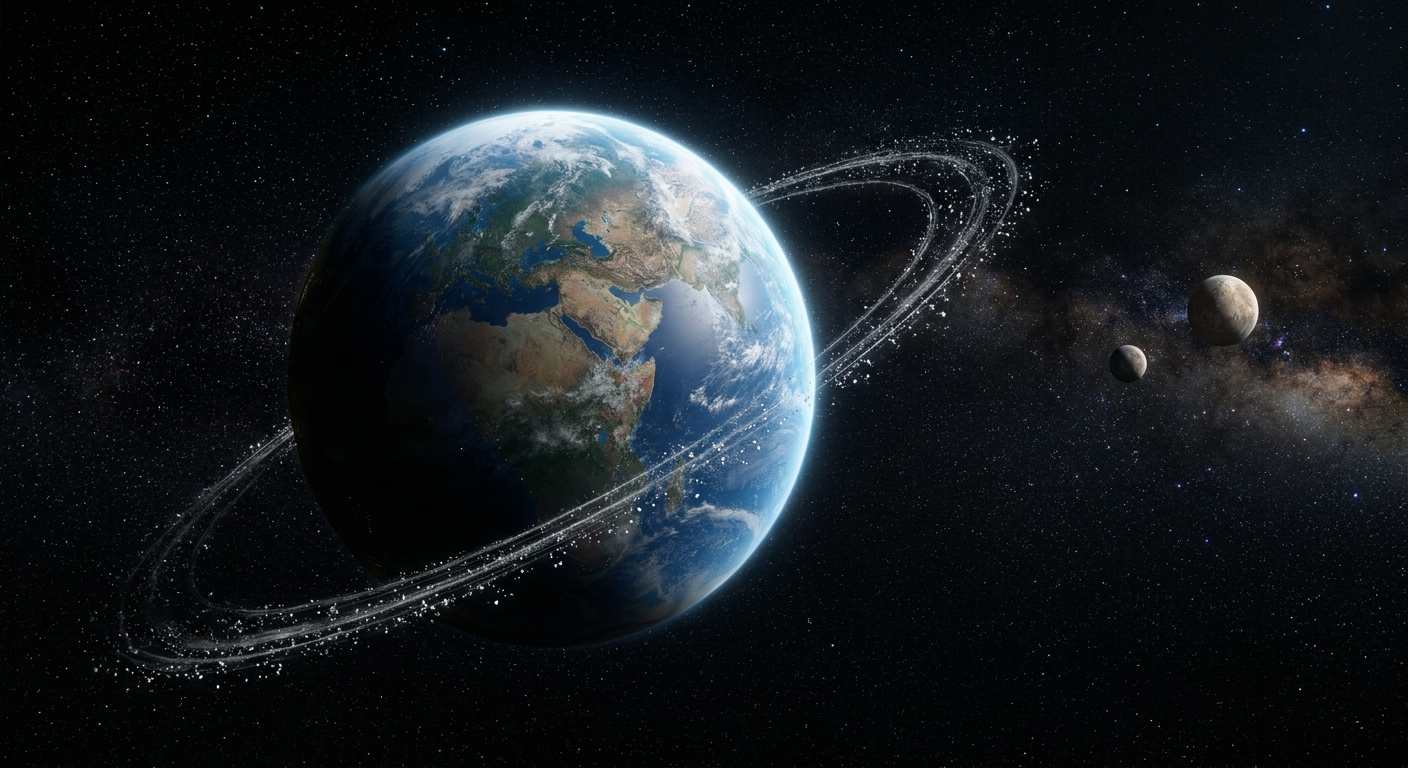
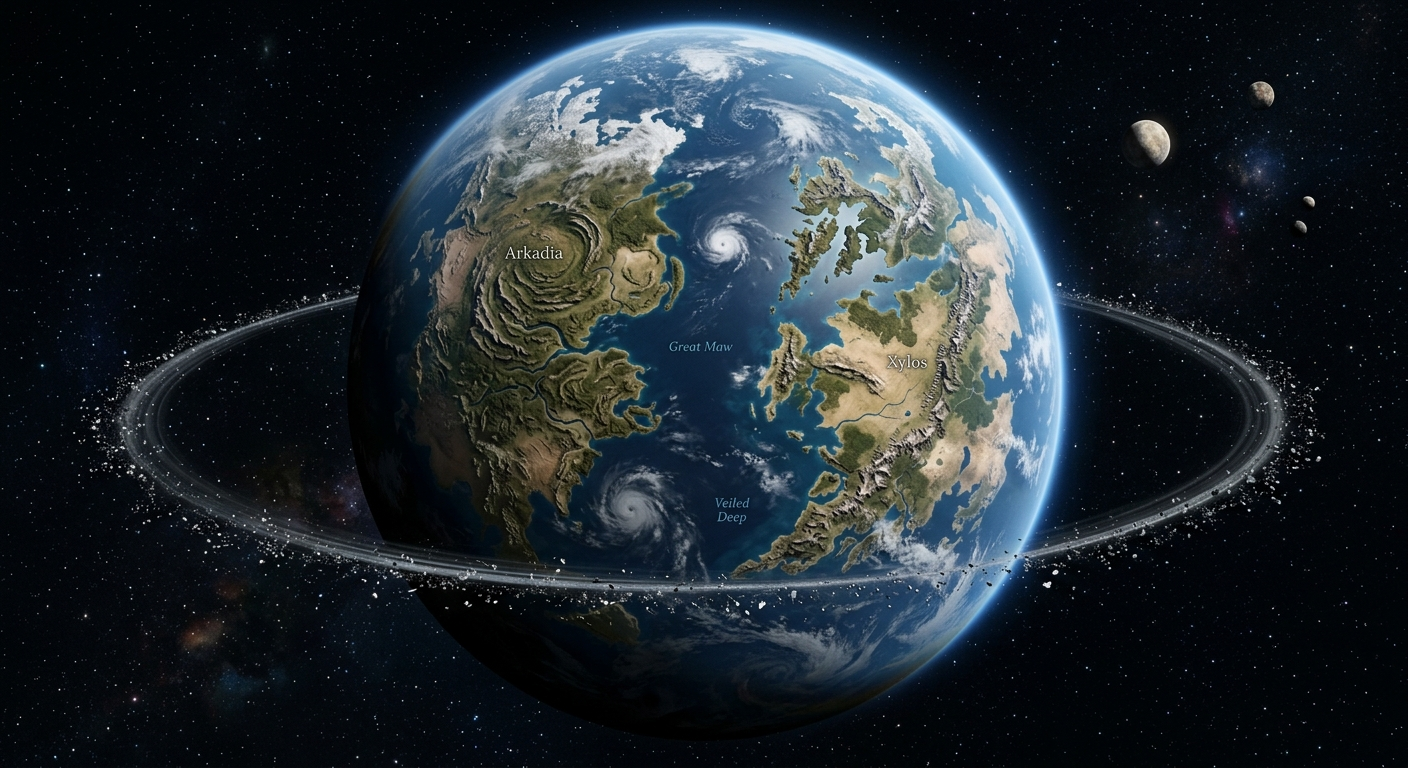
World of Ge'or — Ge'orian continents + email fix
- Planet: regenerate Geor_World_fixed.jpg with fictional continents (Arkadia, Xylos, Great Maw, Veiled Deep), no Earth, thin fragmented Silver Bride ring via nano-banana pro
- Hero: now uses Geor_World_fixed.jpg (random continents, not Earth)
- Atlas: orbital view label stays Silver Bride 597 AGD
- Email: Request Access (header, mobile, CTA) -> ichieisenheart@gmail.com with subject

diff --git a/index.html b/index.html
@@ -26,8 +26,8 @@
         <a href="#gallery" class="text-cream/70 hover:text-cream transition">GALLERY</a>
       </nav>
       <div class="hidden md:flex items-center gap-3">
-        <a href="mailto:hello@worldofgeor.com" class="text-xs tracking-widest border border-gold/30 text-gold px-4 py-2 rounded-full hover:bg-gold/10 transition">REQUEST ACCESS</a>
-        <a href="#world" class="text-xs tracking-widest bg-gradient-to-b from-gold to-amberdeep text-ink px-5 py-2.5 rounded-full font-semibold hover:brightness-110 transition">ENTER</a>
+        <a href="mailto:ichieisenheart@gmail.com?subject=Request%20access%20to%20World%20of%20Ge'or" class="text-xs tracking-widest border border-gold/30 text-gold px-4 py-2 rounded-full hover:bg-gold/10 transition">REQUEST ACCESS</a>
+        <a href="#atlas" class="text-xs tracking-widest bg-gradient-to-b from-gold to-amberdeep text-ink px-5 py-2.5 rounded-full font-semibold hover:brightness-110 transition">ENTER</a>
       </div>
       <button id="menuBtn" class="md:hidden p-2 text-cream/80">
         <svg width="22" height="22" viewBox="0 0 24 24" fill="none" stroke="currentColor" stroke-width="1.6"><path d="M4 7h16M4 12h16M4 17h16"/></svg>
@@ -38,14 +38,14 @@
       <a href="#atlas" class="block text-sm tracking-widest text-cream/80">ATLAS</a>
       <a href="#history" class="block text-sm tracking-widest text-cream/80">HISTORY</a>
       <a href="#gallery" class="block text-sm tracking-widest text-cream/80">GALLERY</a>
-      <a href="#" class="inline-block mt-2 text-xs tracking-widest bg-gold text-ink px-5 py-2.5 rounded-full font-semibold">REQUEST ACCESS</a>
+      <a href="mailto:ichieisenheart@gmail.com?subject=Request%20access%20to%20World%20of%20Ge'or" class="inline-block mt-2 text-xs tracking-widest bg-gold text-ink px-5 py-2.5 rounded-full font-semibold">REQUEST ACCESS</a>
     </div>
   </header>
 
   <!-- Hero -->
   <section class="relative min-h-[92vh] flex items-center overflow-hidden pt-[64px]">
     <div class="absolute inset-0">
-      <img src="/Geor_from_orbit.png" alt="Ge'or from orbit" class="w-full h-full object-cover object-[center_35%]" onerror="this.style.display='none'" />
+      <img src="/Geor_World_fixed.jpg" alt="Ge'or from orbit" class="w-full h-full object-cover object-[center_35%]" onerror="this.style.display='none'" />
       <div class="absolute inset-0 bg-gradient-to-b from-ink/20 via-ink/40 to-ink"></div>
       <div class="absolute inset-0 bg-gradient-to-r from-ink/80 via-ink/20 to-transparent"></div>
     </div>
@@ -223,7 +223,7 @@
           <p class="mt-2 text-sm leading-6 text-cream/70 max-w-[560px]">World of Ge'or is an invite-only archive. If you were given a link, you’re already on the list. If not — request access and we’ll get back to you.</p>
         </div>
         <div class="flex gap-3 shrink-0">
-          <a href="mailto:hello@worldofgeor.com?subject=Request%20access%20to%20World%20of%20Ge'or" class="bg-cream text-ink px-7 py-3 rounded-full text-sm font-semibold tracking-wide hover:bg-white transition">Request Access</a>
+          <a href="mailto:ichieisenheart@gmail.com?subject=Request%20access%20to%20World%20of%20Ge'or" class="bg-cream text-ink px-7 py-3 rounded-full text-sm font-semibold tracking-wide hover:bg-white transition">Request Access</a>
           <a href="https://worldofgeor.com" class="border border-cream/20 text-cream px-7 py-3 rounded-full text-sm font-medium hover:bg-cream/10 transition">worldofgeor.com</a>
         </div>
       </div>
